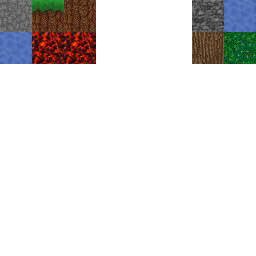
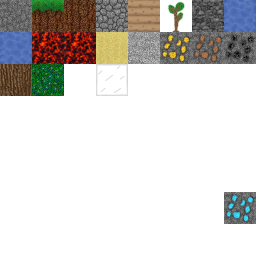
Поддержка 2 версии движка

Changed region(s): [[0.375, 0.0, 1.0, 0.375], [0.0, 0.25, 0.25, 0.375], [0.875, 0.75, 1.0, 0.875]]

diff --git a/Scripts/engine.js b/Scripts/engine.js
@@ -22,23 +22,29 @@ image.onload = () => {
 которые будут с помощью текстурных координат частично использования.
 Рекомендуется использовать размер степени двойки.
 
-СЛЕДУЮЩАЯ ИНФОРМАЦИЯ УСТАРЕЛА!!!
+Настройка (должна быть вызвана перед созданием объектов обязательно):
+r.settings(size, widthChunk, heightChunk)
+	size - размер блоков
+	widthChunk - ширина чанков
+	heightChunk - высота чанков
 
-Создание объекта:
-r.createObject([x1, y1], [x2, y2], [xi1, yi1], [xi2, yi2], slice)
-	x1, y1 - координаты левого верхнего угла
-	x2, y2 - координаты нижнего правого угла
-	xi1, yi1 - координаты левого верхнего угла на текстуре
-	xi2, yi2 - координаты нижнего правого угла на текстуре
-	slice - слой > 0. Чем больше значение, тем объект будет находить дальше от камеры.
-		(0.01..2) - интерфейс (не двигается)
-		(2..999) - игра
+Создание объектов:
+r.createObjects(arrayOfObjects)
+	arrayOfChunk - массив/объект таких ассоциативных массивов:
+		{'id': id, 'a': [x1, y1], 'b': [x2, y2]}
+			id - id блока
+			x1, y1 - координаты левого верхнего угла на текстуре [0..1]
+			x2, y2 - координаты нижнего правого угла на текстуре [0..1]
 
 Отрисовка:
-r.render(x, y, height, arrayOfObjects)
+r.render(x, y, scale, arrayOfObjects)
 	x, y - координаты камеры
-	height - высота экрана
-	arrayOfObjects - массив объектов
+	scale - масштаб экрана
+	arrayOfObjects - массив/объект чанков, которые представляются в виде ассоциативных массивов:
+		{'chunk': chunk', 'slice': slice, 'x': xc, 'y': yc}
+			chunk - матрица с id блоков
+			slice - слой на котором должен находиться чанк [4..1000]
+			xc, yc - координаты чанка
 
 Полный рабочий пример:
 
@@ -128,9 +134,14 @@ class Render {
 			0, 0, 1, 0,
 			0, 0, 0, 1]);
 	}
+	
+	settings(size, widthChunk, heightChunk) {
+		this.size = size;
+		this.widthChunk = widthChunk;
+		this.heightChunk = heightChunk;
+	}
 
 	createObjects(arrayOfObjects) {
-		this.size = 32;
 		let endId = 0;
 		this.ids = [];
 		
@@ -173,14 +184,15 @@ class Render {
 			throw new Error("Invalid scale: scale <= 0");
 		}
 		this.resizeCanvas(this.gl.canvas);
+		const ch = this.size / this.gl.canvas.height;
 		const asp = this.gl.canvas.width / this.gl.canvas.height;
 		const width = scale * asp;
-		const left = x - width / 2;
-		const right = x + width / 2;
-		const bottom = y - scale / 2;
-		const top = y + scale / 2;
+		const left = x * ch - width / 2;
+		const right = x * ch + width / 2;
+		const bottom = y * ch - scale / 2;
+		const top = y * ch + scale / 2;
 		const near = 0.0001;
-		const far = 1000;
+		const far = 1002;
 		this.gl.uniformMatrix4fv(this.projectionMatrixUniformLocation, false, [
 				2.0 / (right - left), 0.0, 0.0, 0.0,
 				0.0, 2.0 / (top - bottom), 0.0, 0.0,
@@ -197,20 +209,21 @@ class Render {
 		// отрисовка блоков
 		this.gl.bindTexture(this.gl.TEXTURE_2D, this.textures[0]);
 		this.gl.uniform1f(this.resolutionUniformLocation, this.gl.canvas.height);
-		const ch = this.size / this.gl.canvas.height;
 		for (let c in arrayOfChunk) {
+			const xc = this.widthChunk * arrayOfChunk[c].x * ch;
+			const yc = this.heightChunk * arrayOfChunk[c].y * ch;
             for (let y in arrayOfChunk[c].chunk) {
 				for (let x in arrayOfChunk[c].chunk[y]) {
 					const id = arrayOfChunk[c].chunk[y][x];
                     if (id !== undefined) {
                         if (this.ids[id] === undefined) {
                             throw new Error("Такого Id нет: " + id);
-                        }
+						}
                         this.gl.uniformMatrix4fv(this.modelviewMatrixUniformLocation, false,
                             [1, 0, 0, 0,
                             0, 1, 0, 0,
                             0, 0, 1, 0,
-                            x * ch, y * ch, -arrayOfChunk[c].slice, 1]);
+                            y * ch + xc, x * ch + yc, -arrayOfChunk[c].slice, 1]);
                         this.gl.drawArrays(this.gl.TRIANGLES, this.ids[id] * 6, 6);
                     }
                 }

diff --git a/Scripts/game.js b/Scripts/game.js
@@ -3,8 +3,8 @@
 const cameraScale = 1;  // Масштаб, 1 - стандарт
 let Vx = 0, Vy = 0, x, y;  // Рекомендация: не использовать скорость больше, чем 1 чанк в кадр (в таких случаях лучше телепортироваться)
 let cameraX = 0, cameraY = 0;  // Положение камеры
-const chankWidth = 4, chankHeight = 4
-const minLayout = 1, maxLayout = 1
+const chankWidth = 64, chankHeight = 32
+const minLayout = 2, maxLayout = 2
 
 const image = new Image();
 image.src = 'Images/blocks.png';
@@ -13,13 +13,14 @@ image.onload = () => {
 	background.src = 'Images/background.png';
 	background.onload = () => {
         const r = new Render(image, image);
+        r.settings(16, chankWidth, chankHeight)
         r.createObjects(
-            [{'id': 1, 'a': [0, 0], 'b': [0.5, 0.5]},
-            {'id': 2, 'a': [0, 0.5], 'b': [0.5, 1]},
-            {'id': 3, 'a': [0.5, 0], 'b': [1, 0.5]},
-            {'id': 7, 'a': [0.5, 0.5], 'b': [1, 1]},
-            {'id': 17, 'a': [0, 0], 'b': [1, 1]},
-            {'id': 18, 'a': [0, 0], 'b': [1, 1]},
+            [{'id': 1, 'a': [0, 0], 'b': [1/8-1/16, 1/8-1/16]},
+            {'id': 2, 'a': [1/8+1/16, 0], 'b': [2/8-1/16, 1/8-1/16]},
+            {'id': 3, 'a': [2/8+1/16, 0], 'b': [3/8-1/16, 1/8-1/16]},
+            {'id': 7, 'a': [6/8+1/16, 0], 'b': [7/8-1/16, 0]},
+            {'id': 17, 'a': [0, 2/8+1/16], 'b': [1/8+1/16, 2/8+1/16]},
+            {'id': 18, 'a': [1/8+1/16, 2/8+1/16], 'b': [2/8-1/16, 2/8+1/16]},
             ]);
 
         const blocks = generate(1024, 1024, 1341241);  // Инициализация мира
@@ -29,7 +30,7 @@ image.onload = () => {
         let oldTime = 0
 		const update = (newTime) => {
             const curChankX = Math.floor(cameraX / chankWidth), curChankY = Math.floor(cameraY / chankHeight);
-            newTime *= 0.0001;
+            newTime *= 0.01;
             const deltaTime = newTime - oldTime
             oldTime = newTime
             let neigChunk = [
@@ -56,17 +57,17 @@ image.onload = () => {
             for (let i = 0; i < neigChunk.length; i++) {
                 for (let j = 0; j < neigChunk[i].length; j++) {
                     if(!neigChunk[i][j]) {
-                        console.log(curChankX +" "+(curChankY))
                         loadChank(i + curChankX - 1, j + curChankY - 1, blocks, arrOfChunks)
                     }
                 }
             }
-            
+
             r.render(cameraX += Vx * deltaTime, cameraY += Vy * deltaTime, cameraScale, arrOfChunks);
             if ((cameraX - Vx >= x && cameraX <= x) || (cameraX - Vx <= x && cameraX >= x) ||  // Достигли по х
             (cameraY - Vy >= y && cameraY <= y) || (cameraY - Vy <= y && cameraY >= y)) {  // Достигли по у
                 return
             }
+            fpsUpdate()
 			requestAnimationFrame(update);
         }
 
@@ -85,16 +86,18 @@ const deleteChankById = (xLocate, yLocate, arrOfChunks) => {
 const loadChank = (xLocate, yLocate, blocks, arrOfChunks) => {
     const stopX = (xLocate + 1) * chankWidth
     const stopY = (yLocate + 1) * chankHeight
+    const startX = xLocate * chankWidth
+    const startY = yLocate * chankHeight
 
     for (let layout = minLayout; layout <= maxLayout; layout++) {
         let layoutChunk = { chunk: [ ], x: xLocate, y: yLocate, slice: layout }
-        for (let i = xLocate * chankWidth; i < stopX; i++) {
-            layoutChunk.chunk[i] = [ ]
-            for (let j = yLocate * chankHeight; j < stopY; j++) {
+        for (let i = startX; i < stopX; i++) {
+            layoutChunk.chunk[i - startX] = [ ]
+            for (let j = startY; j < stopY; j++) {
                 if (i >= 0 && j >= 0 && i < blocks.width && j < blocks.height) {
-                    layoutChunk.chunk[i][j] = blocks.map[Math.floor(i)][Math.floor(j)][layout]
+                    layoutChunk.chunk[i % chankWidth][j % chankHeight] = blocks.map[Math.floor(i)][Math.floor(j)][layout]
                 } else {
-                    layoutChunk.chunk[i][j] = undefined
+                    layoutChunk.chunk[i % chankWidth][j % chankWidth] = undefined
                 }
             }
         }
@@ -113,5 +116,5 @@ const teleportTo = (toX, toY) => {
     cameraY = toY
 }
 
-// teleportTo(150, 600)
-moveTo (40, 100, 0.2, 0)
+teleportTo(150, 600)
+moveTo (40, 100, 1, 0)

diff --git a/index.html b/index.html
@@ -4,26 +4,26 @@
 </head>
 <body>
 	<canvas id="canvas"></canvas>
+	<p id="fps" class="fps">  0 FPS</p>
 	<!-- GLSL -- Тут ничего не трограть, либо писать Надиму! -->
 	<script id="vertex-shader" type="none">
-		precision highp float;
-		
-		attribute vec3 a_position;
+		attribute vec2 a_position;
 		attribute vec2 a_texCoord;
 		
 		uniform mat4 u_modelviewMatrix;
 		uniform mat4 u_projectionMatrix;
+		uniform float u_resolution;
 		
 		varying vec2 u_texCoord;
 
 		void main() {
 			u_texCoord = a_texCoord;
-			vec4 pos = u_modelviewMatrix * vec4(a_position, 1.0);
+			vec4 pos = u_modelviewMatrix * vec4(a_position / u_resolution, 0.0, 1.0);
 			gl_Position = u_projectionMatrix * pos;
 		}
 	</script>
 	<script id="fragment-shader" type="none">
-		precision highp float;
+		precision mediump float;
 		
 		uniform sampler2D u_texture;
 		
@@ -35,6 +35,7 @@
 	</script>
 	<!-- JavaScript -- Сюда писать ваши скрипты -->
 	<script src="Scripts/engine.js"></script>
-	<script src="Scripts/WorldGeneration.js"></script>
 	<script src="Scripts/game.js"></script>
+	<script src="Scripts/fps.js"></script>
+	<script src="Scripts/WorldGeneration.js"></script>
 </body>

diff --git a/Examples/example.js b/Examples/example.js
@@ -7,10 +7,29 @@ image.onload = () => {
 	background.src = 'Images/background.png';
 	background.onload = () => {
 		const r = new Render(image, background);
-		let t = [];
-		t.push(r.createObject([1, 1], [2, 2], [0, 0], [1, 1], 5));
-		t.push(r.createObject([2.5, 2.5], [4, 4], [0, 0], [0.5, 1], 5));
-		t.push(r.createObject([6.5, 2.5], [8, 4], [0.5, 0], [1, 1], 5));
-		r.render(16, 0, 17, t);
-	};
+		
+		r.createObjects(
+			[{'id':1, 'a':[32.5/128, 32.5/128], 'b':[63.5/128, 63.5/128]},
+			{'id':3, 'a':[0.5/128, 0.5/128], 'b':[31.5/128, 31.5/128]}]);
+		
+        let arrayOfChunk = [{
+			'chunk':
+				[[1,1,1,1],
+				[1,1,3,3],
+				[1,1,1,1]],
+			'slice': -1,
+			'x': 0,
+			'y': 0
+			}];
+		let e = -0.8;
+		let oldtime = 0;
+		const update = (newtime) => {
+			newtime *= 0.0001;
+			const deltaTime = newtime - oldtime;
+			oldtime = newtime;
+			r.render(e += deltaTime, 0, 1, arrayOfChunk);
+			requestAnimationFrame(update);
+		}
+		requestAnimationFrame(update);
+    };
 };

diff --git a/Scripts/fps.js b/Scripts/fps.js
@@ -1,0 +1,22 @@
+'use strict';
+
+let _fps_time = performance.now() || Date.now(), _fps_countner = 0;
+
+const fpsUpdate = () => {
+	const nowtime = performance.now() || Date.now();
+	const delta = nowtime - _fps_time;
+	if (delta < 1000) {
+		_fps_countner++;
+	}
+	else {
+		if (_fps_countner < 100) {
+			document.getElementById('fps').innerHTML = ' ';
+			if (_fps_countner < 10) {
+				document.getElementById('fps').innerHTML += ' ';
+			}
+		}
+		document.getElementById('fps').innerHTML += _fps_countner + ' FPS';
+		_fps_time = nowtime;
+		_fps_countner = 0;
+	}
+}

diff --git a/Css/style.css b/Css/style.css
@@ -5,3 +5,13 @@ canvas {
 	width: 100%;
 	height: 100%;
 }
+.fps {
+	position: absolute;
+	top: 0px;   
+	left: 20px;
+	color: #FFF;
+	font-family: Arial, Helvetica, sans-serif;
+	font-size: 20px;
+	background-color: rgba(0, 0, 0, .4);
+	padding: 10px 17px;
+}

diff --git a/Scripts/WorldGeneration.js b/Scripts/WorldGeneration.js
@@ -6,7 +6,7 @@ class GameArea{
         this.height = height;
     }
 }
-GameArea.MAIN_LAYOUT = 0;
+GameArea.MAIN_LAYOUT = 2;
 GameArea.BACK_LAYOUT = 1;
 
 // Класс координат в игровом пространстве
